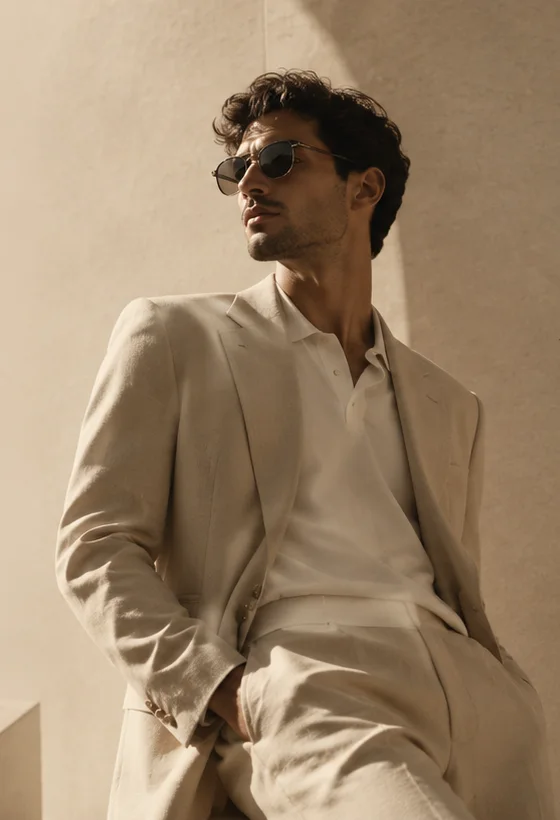
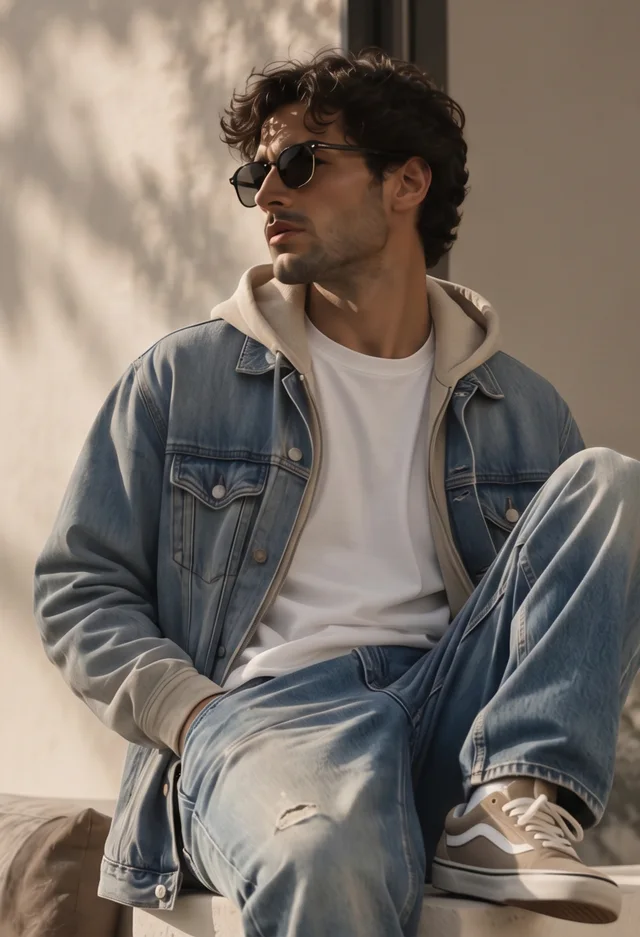
feat: nouveau héros (hero3) et accroche « Le casual, une autre élégance. »
- Modèle découpé dans medias/campagne/hero3.jpeg (cadrages.json : source, zone, largeurs 640/1280)
- srcset 640/1280 pour les écrans haute densité, texte alternatif mis à jour (accueil, page Maison)
- Fondu court en haut de la photo du héros pour l'intégrer au fond sable
- Nouvelle accroche dans le héros et le titre de la page Maison

diff --git a/ui/src/features/accueil/PageAccueil.tsx b/ui/src/features/accueil/PageAccueil.tsx
@@ -28,7 +28,8 @@ function Heros() {
       {/* Arche de lumière (rappel de la maquette) */}
       <div aria-hidden className="absolute -right-[20%] top-[-20%] h-[120%] w-[90%] rounded-t-full bg-gradient-to-b from-neige/45 to-transparent blur-2xl sm:-right-[10%] sm:w-[60%]" />
       <motion.div style={parallaxe ? { y: yImage } : undefined} className="relative order-2 mx-auto h-[62svh] w-[88%] sm:absolute sm:bottom-0 sm:right-0 sm:order-none sm:mx-0 sm:h-[88%] sm:w-[46%] lg:w-[38%]">
-        <motion.img src="/images/campagne/hero-modele-640.webp" alt="Homme en costume de lin écru, lunettes de soleil, adossé à un mur de pierre claire"
+        <motion.img src="/images/campagne/hero-modele-640.webp" srcSet="/images/campagne/hero-modele-640.webp 640w, /images/campagne/hero-modele-1280.webp 978w"
+          sizes="(min-width: 1024px) 38vw, (min-width: 640px) 46vw, 88vw" alt="Homme en veste en jean et sweat à capuche écru, lunettes de soleil, assis sur un muret"
           {...{ fetchpriority: 'high' }} className="masque-heros h-full w-full object-cover object-top"
           initial={actives ? { opacity: 0, scale: 1.06 } : false} animate={{ opacity: 1, scale: 1 }} transition={{ duration: 1.8, ease: EASE_MAISON }} />
       </motion.div>
@@ -36,7 +37,7 @@ function Heros() {
       <motion.div style={parallaxe ? { opacity: opaciteTexte } : undefined} variants={conteneurCascade} initial={actives ? 'cache' : false} animate="visible"
         className="conteneur relative z-10 order-1 grid pb-12 pt-28 sm:min-h-[100svh] sm:grid-rows-[1fr_auto] sm:pb-10 lg:grid-cols-[1fr_auto_1fr] lg:grid-rows-1 lg:items-center lg:pb-0">
         <motion.div variants={elementApparition} className="hidden lg:block">
-          <p className="font-display text-[22px] uppercase italic leading-snug tracking-[0.18em] text-encre/80">Plus qu'un style,<br />une attitude.</p>
+          <p className="font-display text-[22px] uppercase italic leading-snug tracking-[0.18em] text-encre/80">Le casual,<br />une autre élégance.</p>
           <span className="mt-6 block h-px w-24 bg-encre/50" />
         </motion.div>
 
@@ -45,7 +46,7 @@ function Heros() {
           <motion.h1 variants={elementApparition} className="mt-4 font-display text-[clamp(3rem,8vw,6.5rem)] font-medium uppercase leading-none tracking-[0.18em]">H Mode</motion.h1>
           <motion.p variants={elementApparition} className="filet-etoile mt-6 text-[14px]" aria-hidden>✦</motion.p>
           <motion.p variants={elementApparition} className="label-large mt-4 text-encre/70">Style · Quality · You</motion.p>
-          <motion.p variants={elementApparition} className="mt-8 max-w-sm font-display text-[20px] italic text-encre/80 lg:hidden">Plus qu'un style, une attitude.</motion.p>
+          <motion.p variants={elementApparition} className="mt-8 max-w-sm font-display text-[20px] italic text-encre/80 lg:hidden">Le casual, une autre élégance.</motion.p>
           <motion.div variants={elementApparition} className="mt-10 flex w-full max-w-xs flex-col gap-3 sm:w-auto sm:max-w-none sm:flex-row sm:justify-start lg:justify-center">
             <BoutonLien to="/boutique">Découvrir la boutique</BoutonLien>
             <BoutonLien to="/collections" variante="contour">Les collections</BoutonLien>

diff --git a/ui/src/features/infos/PageMaison.tsx b/ui/src/features/infos/PageMaison.tsx
@@ -6,9 +6,9 @@ import { boutique } from '@/lib/catalogue'
 export function PageMaison() {
   return (
     <>
-      <EnTetePage surtitre="La Maison" titre="Plus qu'un style, une attitude." ariane={[{ libelle: 'Accueil', vers: '/' }, { libelle: 'La Maison' }]} />
+      <EnTetePage surtitre="La Maison" titre="Le casual, une autre élégance." ariane={[{ libelle: 'Accueil', vers: '/' }, { libelle: 'La Maison' }]} />
       <section className="conteneur grid items-center gap-12 lg:grid-cols-2 lg:gap-24">
-        <Cadre className="aspect-[4/5]"><img src="/images/campagne/hero-modele-640.webp" alt="Homme en costume de lin écru" className="absolute inset-0 h-full w-full object-cover object-top" /></Cadre>
+        <Cadre className="aspect-[4/5]"><img src="/images/campagne/hero-modele-640.webp" srcSet="/images/campagne/hero-modele-640.webp 640w, /images/campagne/hero-modele-1280.webp 978w" sizes="(min-width: 1024px) 40vw, 100vw" alt="Homme en veste en jean et sweat à capuche écru, lunettes de soleil" className="absolute inset-0 h-full w-full object-cover object-top" /></Cadre>
         <Revelation className="flex flex-col gap-6 text-[17px] text-gris">
           <Monogramme className="h-14" />
           <p>H MODE est une boutique de vêtements premium pour homme, à {boutique.ville}.</p>

diff --git a/ui/src/styles/index.css b/ui/src/styles/index.css
@@ -50,12 +50,12 @@
 }
 
 @layer utilities {
-  /* Photo du héros : fondu bas (mobile) ; fondus gauche + bas (desktop) pour l'intégrer au fond sable */
-  .masque-heros { -webkit-mask-image: linear-gradient(to bottom, #000 80%, transparent); mask-image: linear-gradient(to bottom, #000 80%, transparent); }
+  /* Photo du héros : fondus haut (court, sur le mur) + bas (mobile) ; + gauche (desktop) pour l'intégrer au fond sable */
+  .masque-heros { -webkit-mask-image: linear-gradient(to bottom, transparent, #000 5%, #000 80%, transparent); mask-image: linear-gradient(to bottom, transparent, #000 5%, #000 80%, transparent); }
   @media (min-width: 640px) {
     .masque-heros {
-      -webkit-mask-image: linear-gradient(to right, transparent, #000 24%), linear-gradient(to bottom, #000 76%, transparent);
-      mask-image: linear-gradient(to right, transparent, #000 24%), linear-gradient(to bottom, #000 76%, transparent);
+      -webkit-mask-image: linear-gradient(to right, transparent, #000 24%), linear-gradient(to bottom, transparent, #000 5%, #000 76%, transparent);
+      mask-image: linear-gradient(to right, transparent, #000 24%), linear-gradient(to bottom, transparent, #000 5%, #000 76%, transparent);
       -webkit-mask-composite: source-in; mask-composite: intersect;
     }
   }

diff --git a/ui/medias/LISEZMOI.md b/ui/medias/LISEZMOI.md
@@ -7,8 +7,8 @@ medias/
 ├── produits/<slug-du-produit>/1.jpg   ← photo de la carte (vue principale)
 │                              2.jpg   ← vue au survol de la carte, puis galerie de la fiche
 │                              3.jpg … ← vues suivantes de la galerie
-├── campagne/hero.png                  ← maquette d'où sont découpées les images de l'accueil
-├── campagne/cadrages.json             ← zones découpées dans hero.png (x, y, largeur, hauteur)
+├── campagne/hero3.jpeg                ← maquette d'où est découpé le modèle du héros (accueil, page Maison)
+├── campagne/cadrages.json             ← pour chaque image : fichier source, zone découpée (x, y, largeur, hauteur), largeurs
 └── provenance.json                    ← d'où vient chaque photo (photos boutique, Nike, Jumia…)
 ```
 
